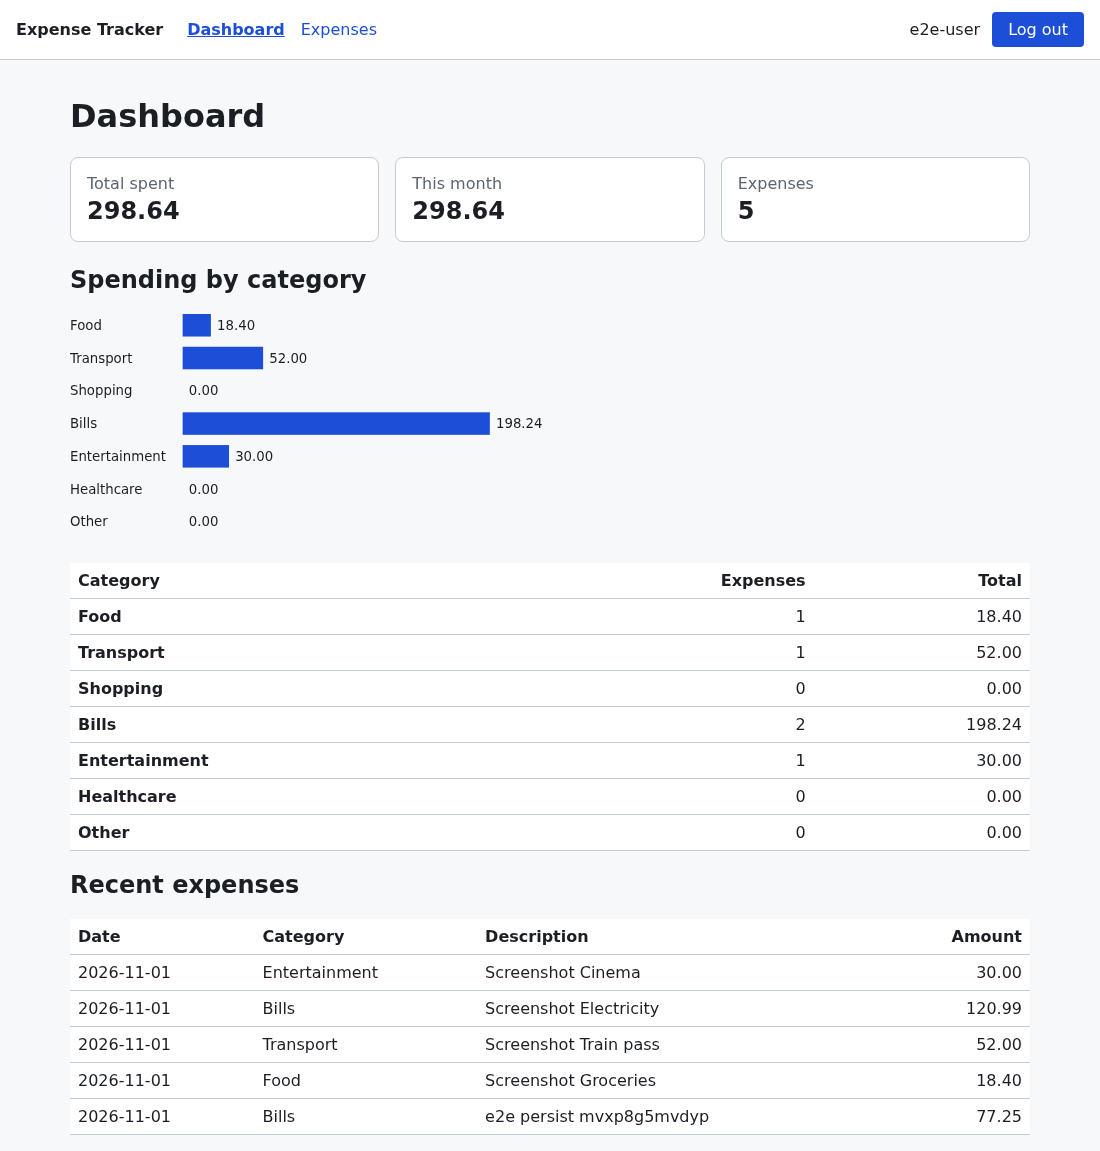
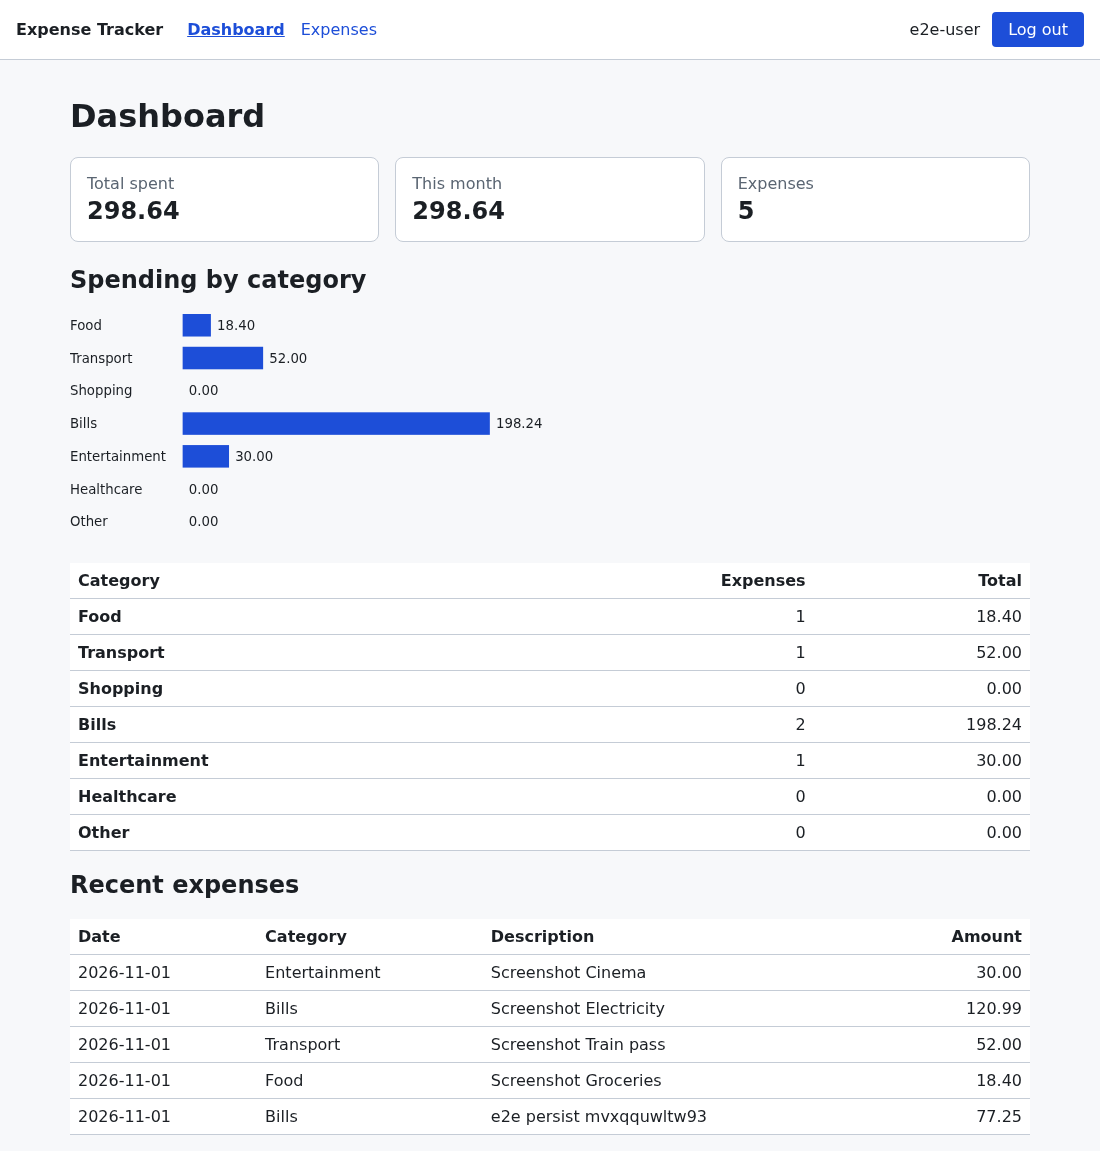
docs: record final audit and regenerated evidence

Changed region(s): [[0.4327, 0.7906, 0.6491, 0.9731], [0.2473, 0.7906, 0.34, 0.9731]]

diff --git a/docs/agent-handoffs.md b/docs/agent-handoffs.md
@@ -327,3 +327,12 @@ Use the block from `.github/skills/agent-handoff/handoff-template.md`. Newest en
 - **Blocker / human action:** stop the dev servers on ports 8000 and 5173 (I did not kill your processes), then run `scripts/check-all.sh --e2e`. That regenerates `login.png`, `expenses.png`, `dashboard.png`, new `signup.png` and executes `multi-user.spec.ts`; the new spec has never run and may need adjustment. Then update CR2-F/CR2-T rows.
 - **Not run:** E2E, screenshots, mypy, mutation check, concurrency (see `docs/test-report.md`).
 - **Next action:** testing agent re-run after the ports are free.
+
+---
+
+### HANDOFF DOC-05 re-audit - orchestrator - 2026-11-01
+
+- **Task ID(s):** DOC-05 (re-run after CR-002; row stays COMPLETED)
+- **Results:** (1) `scripts/check-all.sh --e2e` exit 0: ruff clean, backend 389 passed, frontend 70 passed, E2E 4 passed, `docs/evidence/test-runs/check-20261101T111722Z.txt`: PASS. A first run (`check-20261101T111105Z.txt`, exit 2) failed only because dev servers held ports 8000/5173; the human stopped them. (2) 4 real screenshots (`login`, `signup`, `expenses`, `dashboard`): PASS. (3) secrets scan: no `.env`, `*.db` or credential files tracked; `.env.example` placeholders only; grep hits only skill docs and test fixtures: PASS. (4) `check-ownership.sh` backend/frontend/testing/documentation/orchestrator exit 0 before the validation runs; `git status` NOT clean afterwards (regenerated `dashboard.png`, `expenses.png`; new `check-20261101T111105Z.txt`, `check-20261101T111722Z.txt`): FAIL until the human reviews and commits. README `make setup`/`seed-user`/dev servers not re-run.
+- **Still open:** key prompts for modules 1-5 not recorded (PARTIAL); page and half-page lengths not measured.
+- **Human must do (HC5/HC6):** review regenerated screenshots, commit evidence, upload report to Google Drive (anyone with link can view), push. Nothing pushed.
